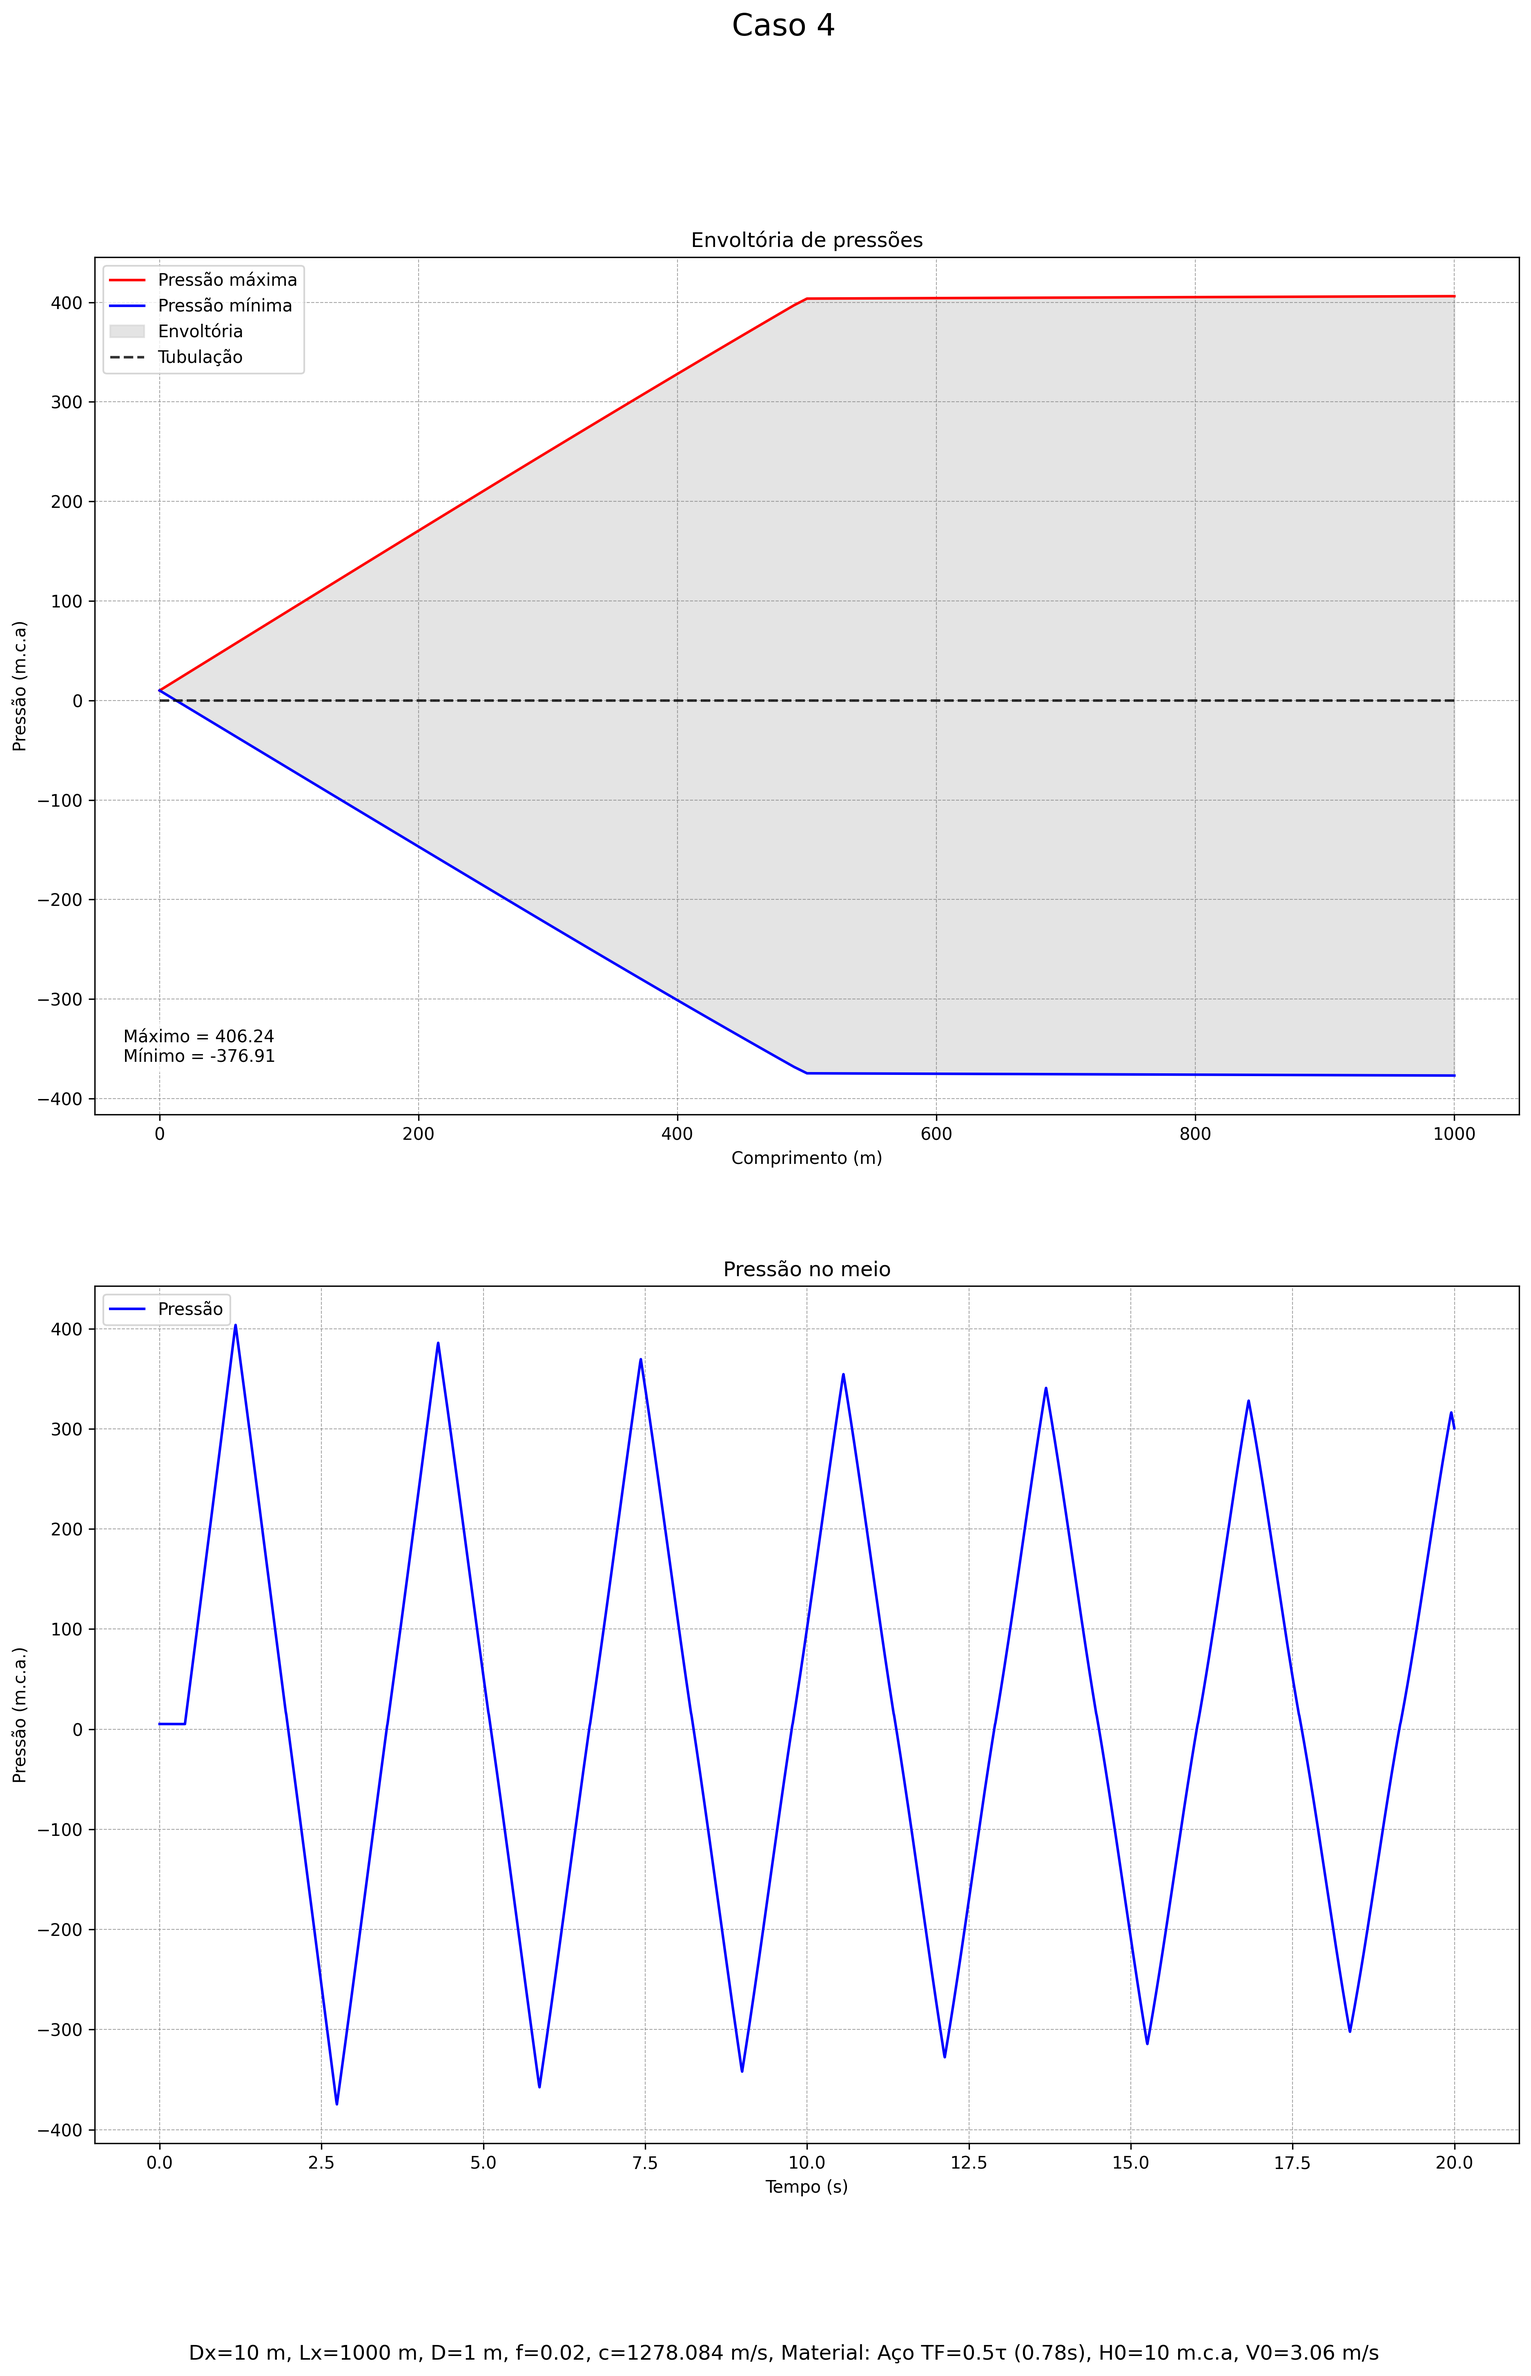
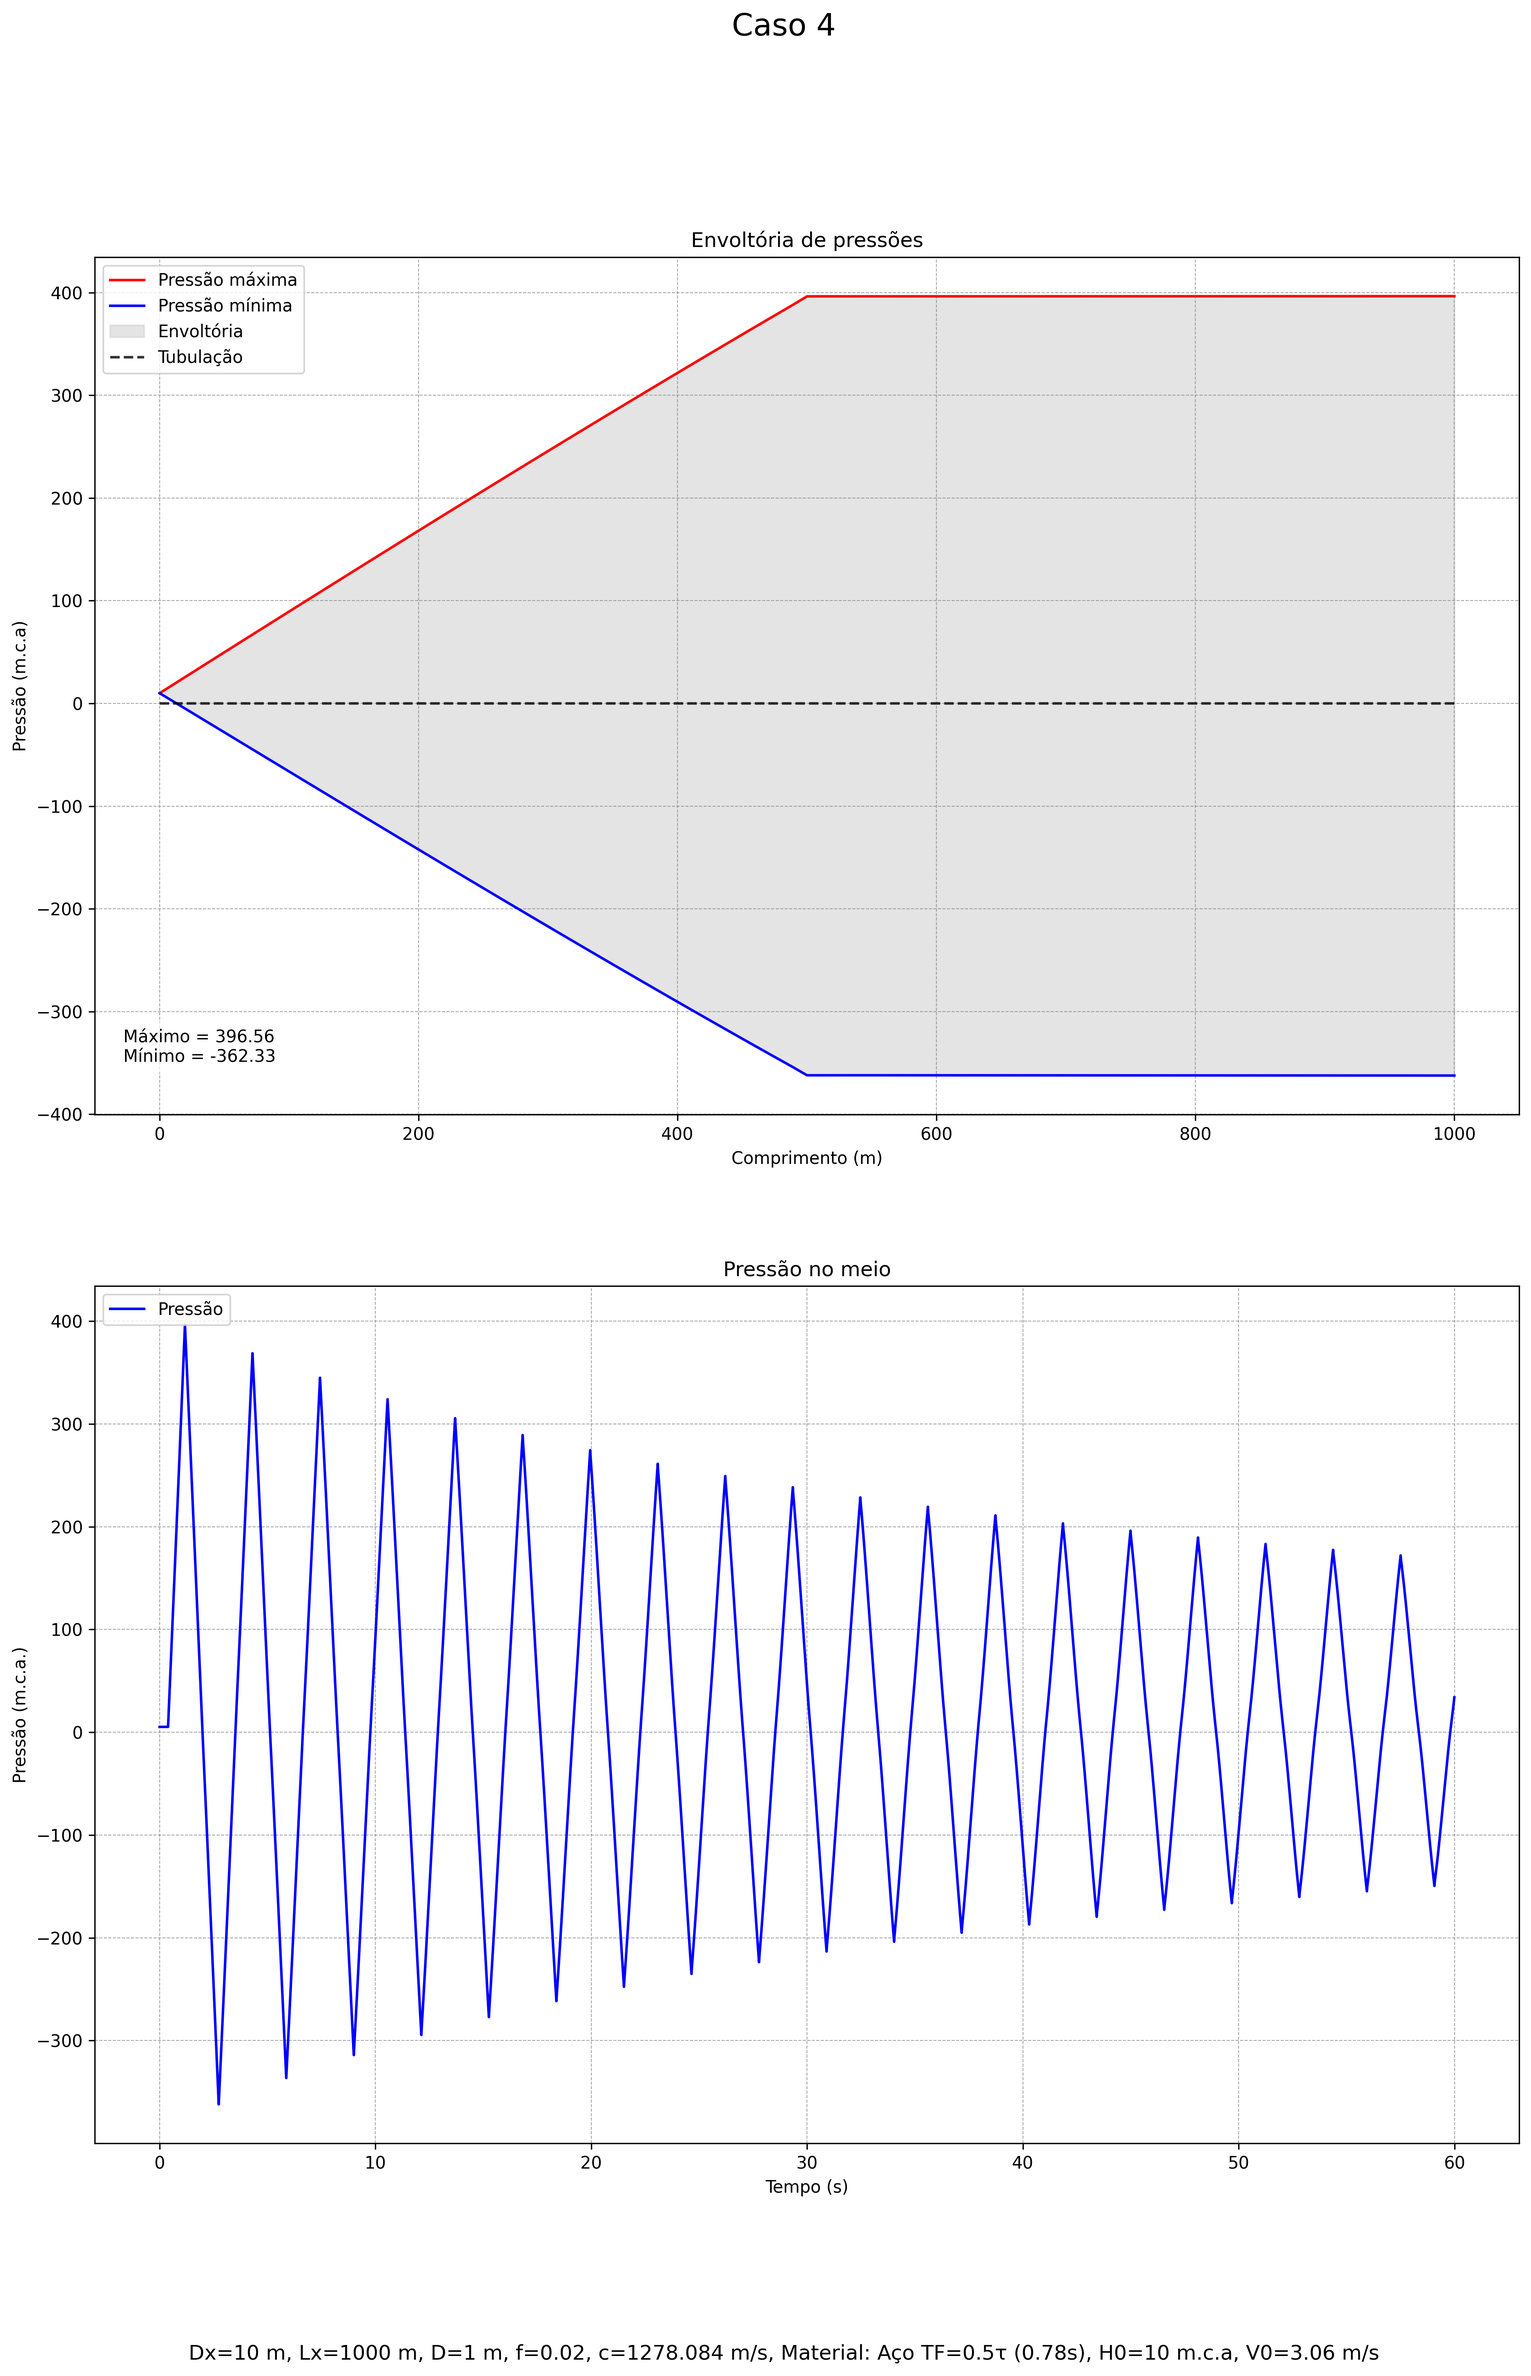
S_08

diff --git a/transiente-hidraulico-moc-slicing.py b/transiente-hidraulico-moc-slicing.py
@@ -4,33 +4,32 @@ from matplotlib.animation import FuncAnimation
 import os
 from tqdm import tqdm
 import time
-from casos import casos
 
 
 pasta_saida = "graficos_slicing"    # Cria o nome da pasta para salvar gráficos e animações
 os.makedirs(pasta_saida, exist_ok=True)      # Cria a pasta para salvar gráficos e animações
 animacao = False     # Define se vai ser gerada a animação
-"""
-# --- CASOS SIMULADOS ---
-casos = [[1, 1, 1278.084, 0.5, 20, 'Aço'],
-         [1, 0.15, 1381.964, 0.5, 20,'Aço'],
-         [1, 0.5, 1330.808, 0.5, 20,'Aço'],
-         [0.1, 1, 1278.084, 0.5, 5,'Aço'],
-         [10, 1, 1278.084, 0.5, 20,'Aço'],
-         [1, 1, 1278.084, 0.1, 20,'Aço'],
-         [1, 1, 1278.084, 2, 20,'Aço'],
-         [1, 1, 606.841, 0.5, 20,'PVC'],
-         [1, 0.5, 609.923, 0.5, 20,'PVC'],
+
+casos = [[1, 1, 1278.084, 0.5, 60, 'Aço'],
+         [1, 0.15, 1382.015, 0.5, 60,'Aço'],
+         [1, 0.5, 1330.808, 0.5, 60,'Aço'],
+         [0.1, 1, 1278.084, 0.5, 20,'Aço'],
+         [10, 1, 1278.084, 0.5, 60,'Aço'],
+         [1, 1, 1278.084, 0.1, 60,'Aço'],
+         [1, 1, 1278.084, 2, 60,'Aço'],
+         [1, 1, 606.894, 0.5, 60,'PVC'],
+         [1, 0.5, 609.996, 0.5, 60,'PVC'],
 ]
-"""
-# Essa é a matriz com os dados de todos os casos simulados, na ordem: Dx, D, Material (c) , Tal, Tempo de simulação
+
+# Define os casos simulados, na ordem: Dx, D, c, TF, TT, Material
 
 tempo_casos = []    # Matriz para simular o tempo dos casos
-tabela_maximos = []
-cota_terreno = 0
+tabela_maximos = []     # Cria uma tabela para armazenar os valores de máximos e mínimos de cada simulação
+cota_terreno = 0     # Define uma cota para a tubulação horizontal
 
-for caso_simulado in tqdm(range(len(casos)), desc="Simulando casos"):
-    t_inicio = time.time()
+for caso_simulado in tqdm(range(len(casos)), desc="Simulando casos"):     # Inicia a simulação de cada caso, gerenciando o tempo de simulação
+
+    t_inicio = time.time()    # Inicia o monitoramento de tempo da simulação total
 
     # --- DADOS SIMULAÇÃO ---
     Lt = 1000                  # Comprimento da tubulação [m]
@@ -49,8 +48,8 @@ for caso_simulado in tqdm(range(len(casos)), desc="Simulando casos"):
     Q0 = v0 * A0                                    # Vazão inicial [m³/s]
 
     Dt = Dx / c                                     # Passo de tempo                  
-    Tal = round(2 * Lt / c,2)                               # Período da tubulação [s]
-    TF = casos[caso_simulado][3]*Tal                # Tempo fechamento Válvula [s]
+    Tal = 2 * Lt / c                                # Período da tubulação [s]
+    TF = casos[caso_simulado][3]*Tal                # Tempo fechamento Válvula [s] (Uma fração do período)
 
 
     # --- COEFICIENTES DO MÉTODO DAS CARACTERÍSTICAS ---
@@ -80,34 +79,48 @@ for caso_simulado in tqdm(range(len(casos)), desc="Simulando casos"):
 
                 
         # ---  SIMULAÇÃO (Vetorizada) --- 
-    for t in tqdm(range(1, Nt+1), desc=f"Caso {caso_simulado} – tempo", leave=False):
+    for t in tqdm(range(1, Nt+1), desc=f"Caso {caso_simulado} – tempo", leave=False):     # Inicia a simulaçao olhando para cada tempo
                 
-        tempo.append(t*Dt)
+        tempo.append(t*Dt)     # Insere o valor do tempo em uma tabela para gerar os gráficos      
 
         # ---------------------------------------------------------
         # 1. PONTOS INTERNOS (Cálculo simultâneo de i=1 até Nx-1)
         # ---------------------------------------------------------
         
-        # Fatiamento (Slicing):
-        # Queremos calcular os pontos do índice 1 até o penúltimo.
-        # Para i, o vizinho da esquerda (i-1) está nos índices [0 : -2]
-        # Para i, o vizinho da direita (i+1) está nos índices [2 : até o fim]
+        # Fatiamento dos vizinhos anteriores
+        Q_esq = vazao[t-1, 0:-2]  # Vizinho i-1 (Q_A)
+        P_esq = pressao[t-1, 0:-2]
         
-       # --- Cálculo dos Pontos Internos com Atrito Implícito ---
+        Q_dir = vazao[t-1, 2:]    # Vizinho i+1 (Q_B)
+        P_dir = pressao[t-1, 2:]
         
-        # 1. Calculamos Cp e Cn SEM o termo de atrito final
-        Cp_linear = vazao[t-1, 0:-2] + Ca * pressao[t-1, 0:-2]
-        Cn_linear = vazao[t-1, 2:] - Ca * pressao[t-1, 2:]
+        # --- Método das Características com Linearização do Atrito (Wylie & Streeter) ---
         
-        # 2. Coeficiente de resistência baseado na vazão anterior (para linearizar)
-        # O termo de atrito agora será (1 + k * |vazão_anterior|) no denominador
-        resist_esq = k * np.abs(vazao[t-1, 0:-2])
-        resist_dir = k * np.abs(vazao[t-1, 2:])
-
-        # 3. Novas fórmulas de Vazão e Pressão (Estáveis)
-        # Note que o atrito agora divide a equação, impedindo o crescimento infinito
-        vazao[t, 1:-1] = (Cp_linear / (1 + resist_esq) + Cn_linear / (1 + resist_dir)) / 2
-        pressao[t, 1:-1] = ( (Cp_linear / (1 + resist_esq)) - (Cn_linear / (1 + resist_dir)) ) / (2 * Ca)
+        # Calculamos Cp e Cn APENAS com a parte linear (sem subtrair atrito ainda)
+        # Lembre-se: Ca = g*A/a. Nas equações padrão MOC: Cp = Q + (gA/a)*H
+        Cp_base = Q_esq + Ca * P_esq
+        Cn_base = Q_dir - Ca * P_dir
+        
+        # Fator de amortecimento devido ao atrito (O Denominador Mágico)
+        # k = f * dt / (2 * D * A)
+        # O termo de atrito atua nas duas características chegando ao ponto P.
+        # Somamos a resistência vinda da esquerda e da direita.
+        fator_atrito = 1 + k * (np.abs(Q_esq) + np.abs(Q_dir))
+        
+        # Cálculo final da Vazão (Qp) com o denominador
+        vazao[t, 1:-1] = (Cp_base + Cn_base) / (2 * fator_atrito)
+        
+        # Cálculo da Pressão (Hp)
+        # Recuperamos Hp substituindo o Qp encontrado em uma das equações de compatibilidade
+        # Hp = (Cp_base - Qp*(1 + k*|Q_esq|)) / Ca ... mas podemos simplificar pela média:
+        pressao[t, 1:-1] = (Cp_base - Cn_base) / (2 * Ca) 
+        
+        # Nota: A equação de pressão acima é uma simplificação válida se o termo de atrito 
+        # for distribuído simetricamente, o que é verdade para tubos uniformes.
+        # Se quiser a precisão exata do método de Wylie Streeter para a pressão também:
+        # termo_atrito_esq = k * np.abs(Q_esq) * vazao[t, 1:-1]
+        # termo_atrito_dir = k * np.abs(Q_dir) * vazao[t, 1:-1]
+        # pressao[t, 1:-1] = ( (Cp_base - termo_atrito_esq) - (Cn_base + termo_atrito_dir) ) / (2*Ca)
 
         # ---------------------------------------------------------
         # 2. CONDIÇÕES DE CONTORNO (Reservatório e Válvula)
@@ -134,10 +147,10 @@ for caso_simulado in tqdm(range(len(casos)), desc="Simulando casos"):
         pressao[t, -1] = (cp_valv - vazao[t, -1]) / Ca
 
     # --- SELECIONA DADOS DE INTERESSE ---
-    envol_max = np.max(pressao, axis=0)     # Olha a matriz de pressões e seleciona o maior valor de cada ponto.
-    envol_min = np.min(pressao, axis=0)     # Olha a matriz de pressões e seleciona o menor valor de cada ponto.
-    coluna_v_final = vazao[:, Nx]           # Olha a matriz de vazões e seleciona a última coluna.
-    coluna_m_pressao = pressao[:, pressao.shape[1] // 2] # Olha a matriz de pressão e seleciona a coluna do meio
+    envol_max = np.max(pressao, axis=0)                    # Olha a matriz de pressões e seleciona o maior valor de cada ponto.
+    envol_min = np.min(pressao, axis=0)                    # Olha a matriz de pressões e seleciona o menor valor de cada ponto.
+    coluna_v_final = vazao[:, Nx]                          # Olha a matriz de vazões e seleciona a última coluna.
+    coluna_m_pressao = pressao[:, pressao.shape[1] // 2]   # Olha a matriz de pressão e seleciona a coluna do meio
 
     tabela_maximos.append([caso_simulado, np.max(pressao),np.min(pressao)])
 

diff --git a/transiente-hidraulico-moc.py b/transiente-hidraulico-moc.py
@@ -4,27 +4,23 @@ from matplotlib.animation import FuncAnimation
 import os
 from tqdm import tqdm
 import time
-from casos import casos
+
 
 
 pasta_saida = "graficos"    # Cria o nome da pasta para salvar gráficos e animações
 os.makedirs(pasta_saida, exist_ok=True)      # Cria a pasta para salvar gráficos e animações
 animacao = False     # Define se vai ser gerada a animação
 
-"""
-# --- CASOS SIMULADOS ---
-casos = [[1, 1, 1278.084, 0.5, 20, 'Aço'],
-         [1, 0.15, 1381.964, 0.5, 20,'Aço'],
-         [1, 0.5, 1330.808, 0.5, 20,'Aço'],
-         [0.1, 1, 1278.084, 0.5, 5,'Aço'],
-         [10, 1, 1278.084, 0.5, 20,'Aço'],
-         [1, 1, 1278.084, 0.1, 20,'Aço'],
-         [1, 1, 1278.084, 2, 20,'Aço'],
-         [1, 1, 606.841, 0.5, 20,'PVC'],
-         [1, 0.5, 609.923, 0.5, 20,'PVC'],
+casos = [[1, 1, 1278.084, 0.5, 60, 'Aço'],
+         [1, 0.15, 1382.015, 0.5, 60,'Aço'],
+         [1, 0.5, 1330.808, 0.5, 60,'Aço'],
+         [0.1, 1, 1278.084, 0.5, 60,'Aço'],
+         [10, 1, 1278.084, 0.5, 60,'Aço'],
+         [1, 1, 1278.084, 0.1, 60,'Aço'],
+         [1, 1, 1278.084, 2, 60,'Aço'],
+         [1, 1, 606.894, 0.5, 60,'PVC'],
+         [1, 0.5, 609.996, 0.5, 60,'PVC'],
 ]
-"""
-# Essa é a matriz com os dados de todos os casos simulados, na ordem: Dx, D, Material (c) , Tal, Tempo de simulação
 
 tempo_casos = []    # Matriz para simular o tempo dos casos
 tabela_maximos = []
@@ -115,7 +111,6 @@ for caso_simulado in tqdm(range(len(casos)), desc="Simulando casos"):
 
                 pressao[t, i] = (cp - cn) / (2*Ca)    # Pressão é calculada com base nas equações do método das características eq
                 vazao[t, i] = (cp + cn) / 2           # Vazão é calculada com base nas equações do método das características eq
-
 
     # --- SELECIONA DADOS DE INTERESSE ---
     envol_max = np.max(pressao, axis=0)     # Olha a matriz de pressões e seleciona o maior valor de cada ponto.
